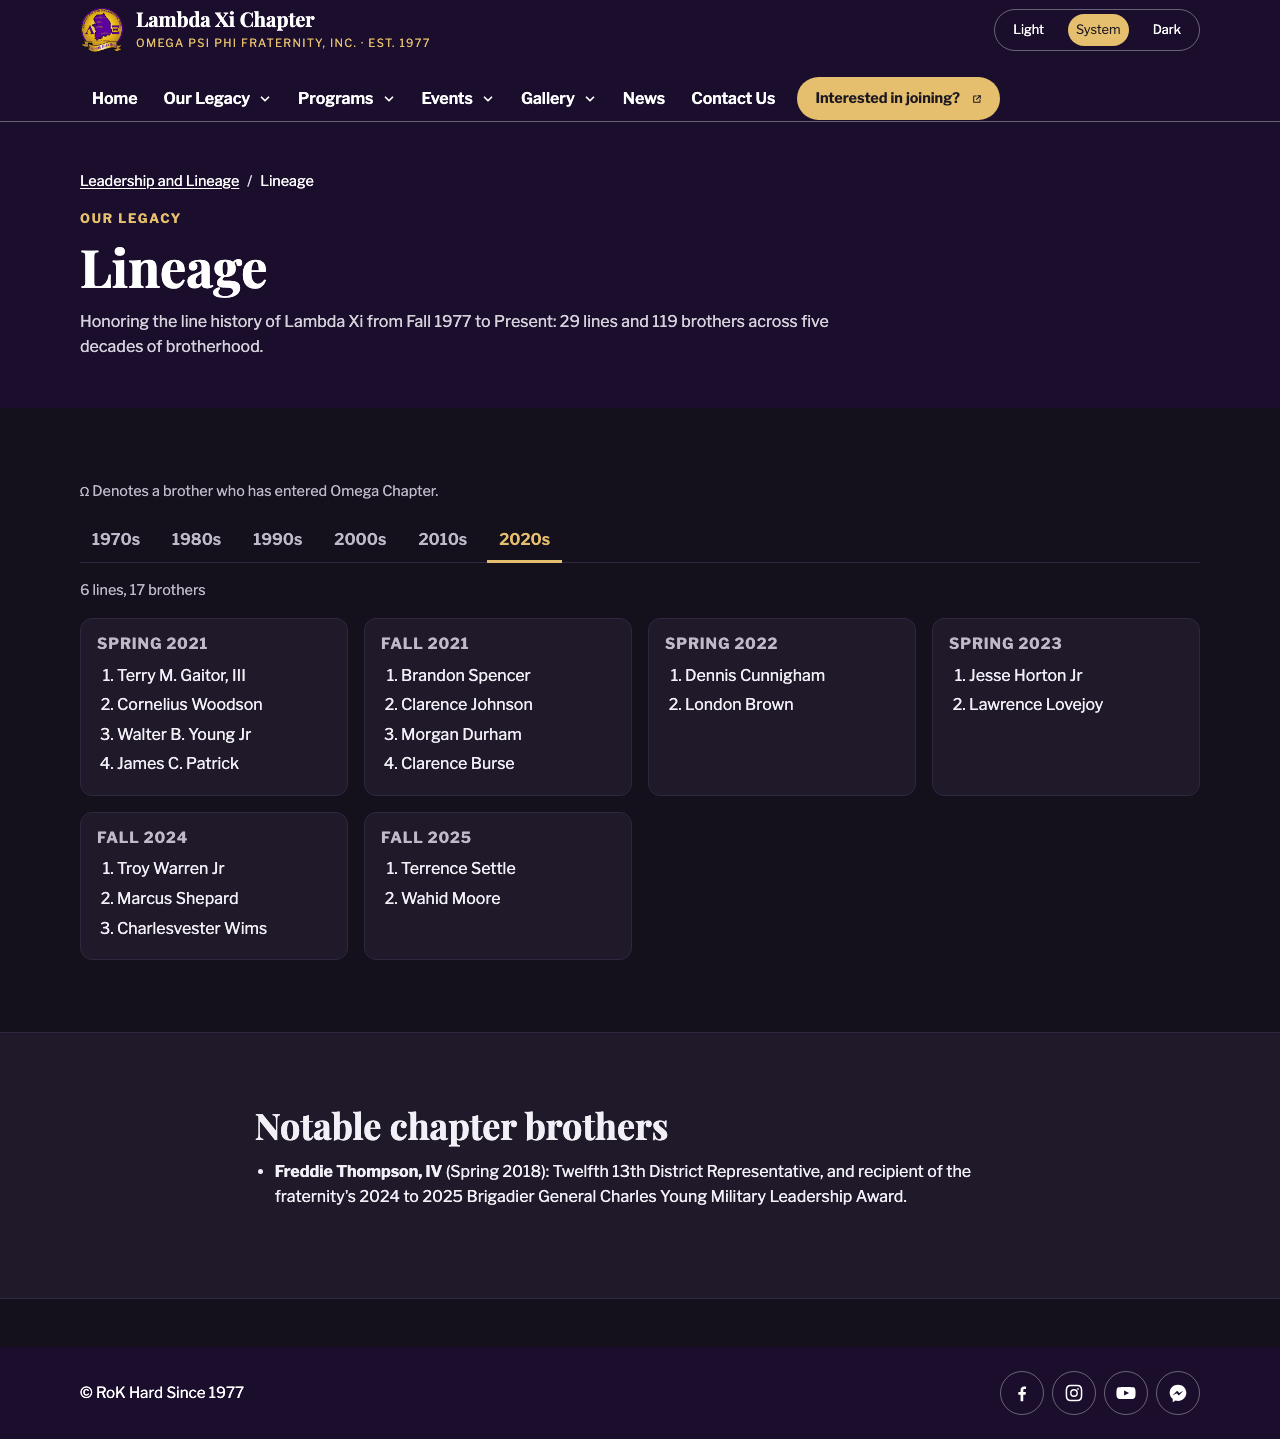
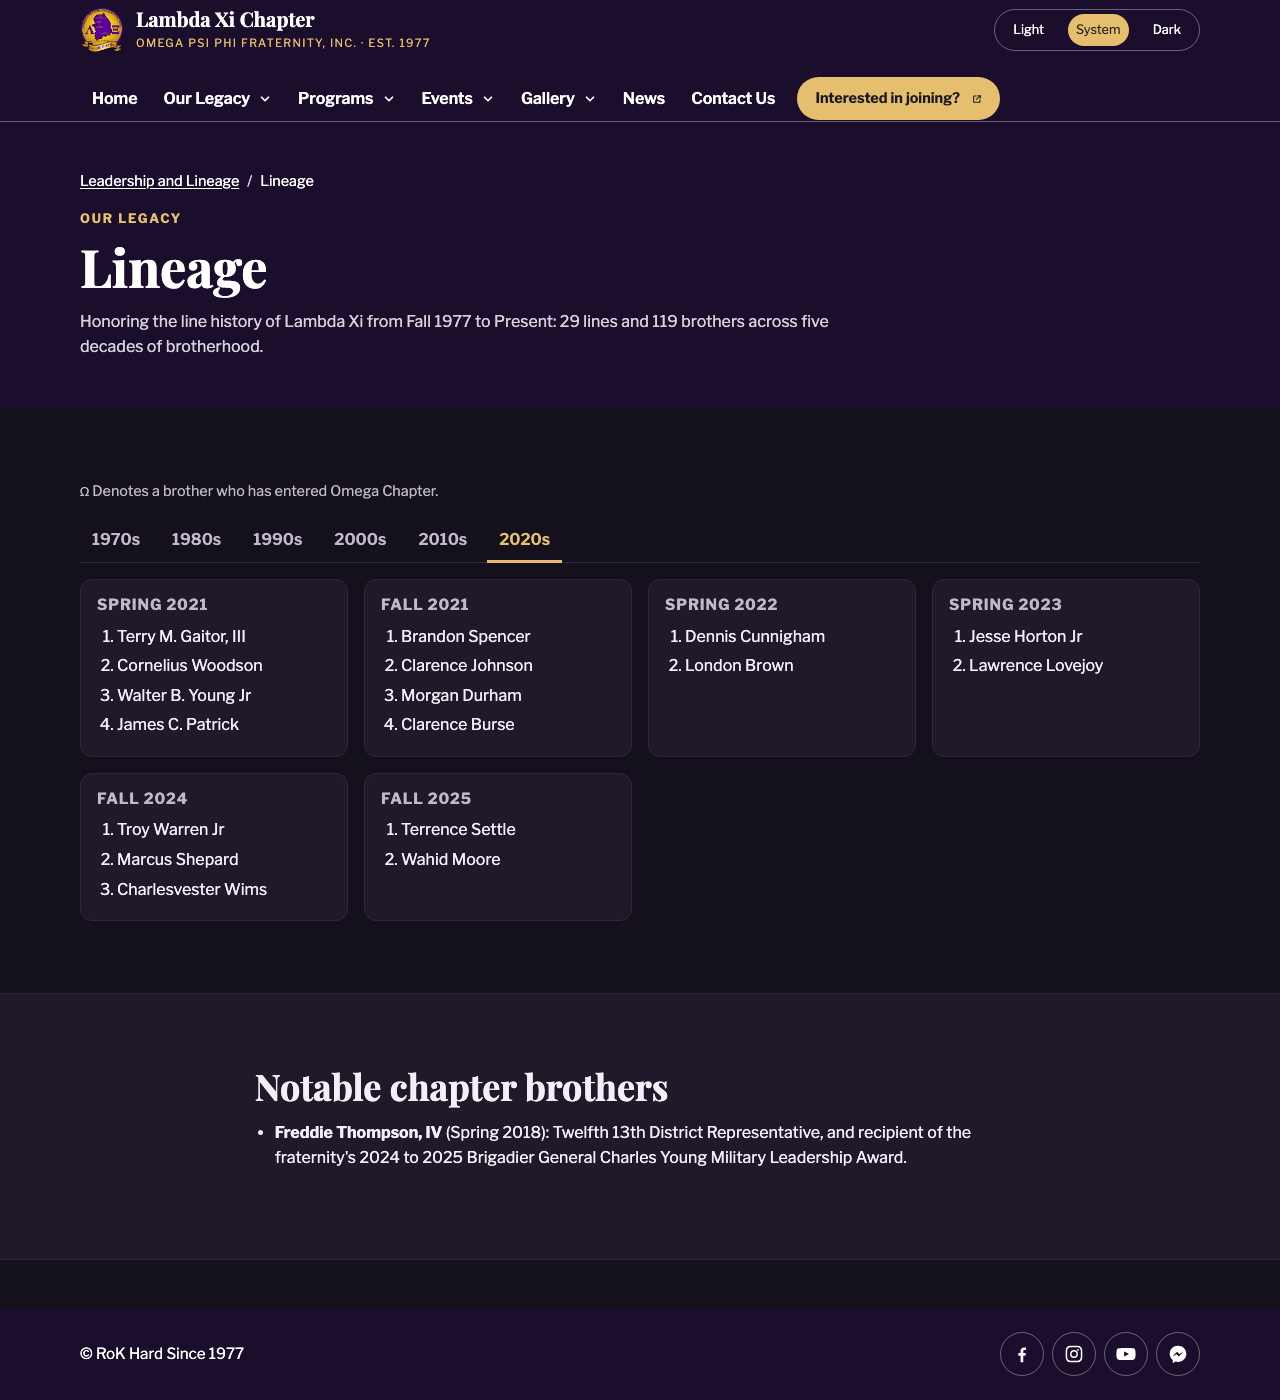
content: drop the per-decade line and brother counts on Lineage

diff --git a/docs/leadership/lineage/index.html b/docs/leadership/lineage/index.html
@@ -112,7 +112,6 @@
 
       <section class="tabs__panel" role="tabpanel" id="decade-1970" aria-labelledby="tab-decade-1970" tabindex="0">
         <h2 class="visually-hidden">1970s</h2>
-        <p class="legend">1 line, 3 brothers</p>
         <div class="semesters">
           <div class="semester">
             <h3>Fall 1977</h3>
@@ -127,7 +126,6 @@
 
       <section class="tabs__panel" role="tabpanel" id="decade-1980" aria-labelledby="tab-decade-1980" tabindex="0">
         <h2 class="visually-hidden">1980s</h2>
-        <p class="legend">9 lines, 47 brothers</p>
         <div class="semesters">
           <div class="semester">
             <h3>Spring 1982</h3>
@@ -231,7 +229,6 @@
 
       <section class="tabs__panel" role="tabpanel" id="decade-2000" aria-labelledby="tab-decade-2000" tabindex="0">
         <h2 class="visually-hidden">2000s</h2>
-        <p class="legend">5 lines, 22 brothers</p>
         <div class="semesters">
           <div class="semester">
             <h3>Spring 2000</h3>
@@ -285,7 +282,6 @@
 
       <section class="tabs__panel" role="tabpanel" id="decade-2010" aria-labelledby="tab-decade-2010" tabindex="0">
         <h2 class="visually-hidden">2010s</h2>
-        <p class="legend">8 lines, 30 brothers</p>
         <div class="semesters">
           <div class="semester">
             <h3>Fall 2011</h3>
@@ -362,7 +358,6 @@
 
       <section class="tabs__panel" role="tabpanel" id="decade-2020" aria-labelledby="tab-decade-2020" tabindex="0">
         <h2 class="visually-hidden">2020s</h2>
-        <p class="legend">6 lines, 17 brothers</p>
         <div class="semesters">
           <div class="semester">
             <h3>Spring 2021</h3>

diff --git a/lineage/mock/lineage-mock.html b/lineage/mock/lineage-mock.html
@@ -111,7 +111,6 @@
 
       <section class="tabs__panel" role="tabpanel" id="decade-1970" aria-labelledby="tab-decade-1970" tabindex="0">
         <h2 class="visually-hidden">1970s</h2>
-        <p class="legend">1 line, 3 brothers</p>
         <div class="semesters">
           <div class="semester">
             <h3>Fall 1977</h3>
@@ -126,7 +125,6 @@
 
       <section class="tabs__panel" role="tabpanel" id="decade-1980" aria-labelledby="tab-decade-1980" tabindex="0">
         <h2 class="visually-hidden">1980s</h2>
-        <p class="legend">9 lines, 47 brothers</p>
         <div class="semesters">
           <div class="semester">
             <h3>Spring 1982</h3>
@@ -230,7 +228,6 @@
 
       <section class="tabs__panel" role="tabpanel" id="decade-2000" aria-labelledby="tab-decade-2000" tabindex="0">
         <h2 class="visually-hidden">2000s</h2>
-        <p class="legend">5 lines, 22 brothers</p>
         <div class="semesters">
           <div class="semester">
             <h3>Spring 2000</h3>
@@ -284,7 +281,6 @@
 
       <section class="tabs__panel" role="tabpanel" id="decade-2010" aria-labelledby="tab-decade-2010" tabindex="0">
         <h2 class="visually-hidden">2010s</h2>
-        <p class="legend">8 lines, 30 brothers</p>
         <div class="semesters">
           <div class="semester">
             <h3>Fall 2011</h3>
@@ -361,7 +357,6 @@
 
       <section class="tabs__panel" role="tabpanel" id="decade-2020" aria-labelledby="tab-decade-2020" tabindex="0">
         <h2 class="visually-hidden">2020s</h2>
-        <p class="legend">6 lines, 17 brothers</p>
         <div class="semesters">
           <div class="semester">
             <h3>Spring 2021</h3>

diff --git a/merged/lineage.html b/merged/lineage.html
@@ -111,7 +111,6 @@
 
       <section class="tabs__panel" role="tabpanel" id="decade-1970" aria-labelledby="tab-decade-1970" tabindex="0">
         <h2 class="visually-hidden">1970s</h2>
-        <p class="legend">1 line, 3 brothers</p>
         <div class="semesters">
           <div class="semester">
             <h3>Fall 1977</h3>
@@ -126,7 +125,6 @@
 
       <section class="tabs__panel" role="tabpanel" id="decade-1980" aria-labelledby="tab-decade-1980" tabindex="0">
         <h2 class="visually-hidden">1980s</h2>
-        <p class="legend">9 lines, 47 brothers</p>
         <div class="semesters">
           <div class="semester">
             <h3>Spring 1982</h3>
@@ -230,7 +228,6 @@
 
       <section class="tabs__panel" role="tabpanel" id="decade-2000" aria-labelledby="tab-decade-2000" tabindex="0">
         <h2 class="visually-hidden">2000s</h2>
-        <p class="legend">5 lines, 22 brothers</p>
         <div class="semesters">
           <div class="semester">
             <h3>Spring 2000</h3>
@@ -284,7 +281,6 @@
 
       <section class="tabs__panel" role="tabpanel" id="decade-2010" aria-labelledby="tab-decade-2010" tabindex="0">
         <h2 class="visually-hidden">2010s</h2>
-        <p class="legend">8 lines, 30 brothers</p>
         <div class="semesters">
           <div class="semester">
             <h3>Fall 2011</h3>
@@ -361,7 +357,6 @@
 
       <section class="tabs__panel" role="tabpanel" id="decade-2020" aria-labelledby="tab-decade-2020" tabindex="0">
         <h2 class="visually-hidden">2020s</h2>
-        <p class="legend">6 lines, 17 brothers</p>
         <div class="semesters">
           <div class="semester">
             <h3>Spring 2021</h3>

diff --git a/tooling/mock-src/pages/lineage.html b/tooling/mock-src/pages/lineage.html
@@ -26,7 +26,6 @@
 
       <section class="tabs__panel" role="tabpanel" id="decade-1970" aria-labelledby="tab-decade-1970" tabindex="0">
         <h2 class="visually-hidden">1970s</h2>
-        <p class="legend">1 line, 3 brothers</p>
         <div class="semesters">
           <div class="semester">
             <h3>Fall 1977</h3>
@@ -41,7 +40,6 @@
 
       <section class="tabs__panel" role="tabpanel" id="decade-1980" aria-labelledby="tab-decade-1980" tabindex="0">
         <h2 class="visually-hidden">1980s</h2>
-        <p class="legend">9 lines, 47 brothers</p>
         <div class="semesters">
           <div class="semester">
             <h3>Spring 1982</h3>
@@ -145,7 +143,6 @@
 
       <section class="tabs__panel" role="tabpanel" id="decade-2000" aria-labelledby="tab-decade-2000" tabindex="0">
         <h2 class="visually-hidden">2000s</h2>
-        <p class="legend">5 lines, 22 brothers</p>
         <div class="semesters">
           <div class="semester">
             <h3>Spring 2000</h3>
@@ -199,7 +196,6 @@
 
       <section class="tabs__panel" role="tabpanel" id="decade-2010" aria-labelledby="tab-decade-2010" tabindex="0">
         <h2 class="visually-hidden">2010s</h2>
-        <p class="legend">8 lines, 30 brothers</p>
         <div class="semesters">
           <div class="semester">
             <h3>Fall 2011</h3>
@@ -276,7 +272,6 @@
 
       <section class="tabs__panel" role="tabpanel" id="decade-2020" aria-labelledby="tab-decade-2020" tabindex="0">
         <h2 class="visually-hidden">2020s</h2>
-        <p class="legend">6 lines, 17 brothers</p>
         <div class="semesters">
           <div class="semester">
             <h3>Spring 2021</h3>
